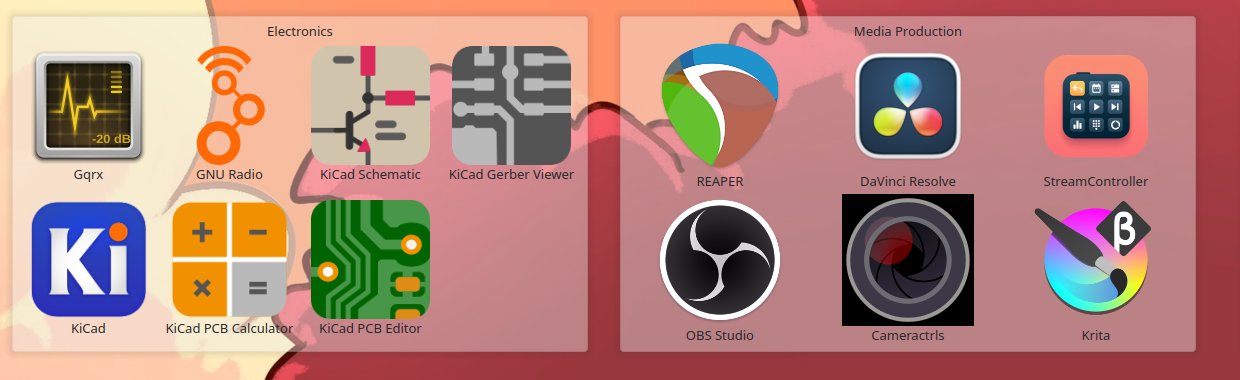
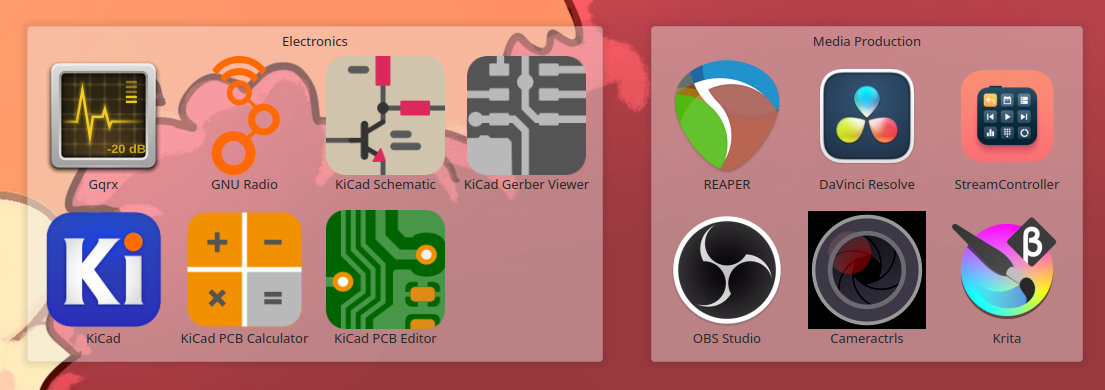
Tidy the layout: balanced widths and centred rows
Two things made a correct layout look sloppy.

Widths were computed from max_columns, but Quicklaunch balances icons
across the rows it is given -- six icons in two rows render 3+3, not
4+2. The extra width was real estate Quicklaunch filled by scaling the
icons up, so every group ended up a slightly different icon size. Sizing
to the balanced column count fixes it.

Rows were also pinned to the left margin with groups top-aligned, which
left dead space on a wide screen and a ragged bottom edge wherever a row
mixed one-row and two-row groups. New `align` setting, defaulting to
center, centres each row horizontally and centres shorter groups within
it.

Screenshots recaptured and cropped tight to the groups.

diff --git a/paddocks/layout.py b/paddocks/layout.py
@@ -24,6 +24,7 @@ class Metrics:
     gap: int = 24            # space between groups
     top: int = 48            # y of the first row
     reserve_bottom: int = 80 # panel allowance
+    align: str = "center"    # "center" or "left" within each row
 
 
 @dataclass
@@ -44,6 +45,11 @@ def size_for(count: int, m: Metrics) -> tuple[int, int, int]:
     """
     columns = max(1, min(m.max_columns, count))
     rows = max(1, math.ceil(count / columns))
+    # Quicklaunch balances icons evenly across the rows it is given: 6 icons in
+    # 2 rows renders 3+3, not 4+2. Size the box to the balanced column count or
+    # it comes out too wide and Quicklaunch scales the icons up to fill it,
+    # leaving every group a slightly different icon size.
+    columns = math.ceil(count / rows)
     w = columns * m.cell + m.pad_x
     h = m.header + rows * m.cell + m.pad_y
     return max(w, m.min_width), max(h, m.min_height), rows
@@ -71,6 +77,7 @@ def _flow(groups, screen, m: Metrics, columns: int | None) -> list[Box]:
     screen_w, screen_h = screen
     limit = screen_w - m.margin
     boxes: list[Box] = []
+    rows_of_boxes: list[list[Box]] = []
 
     x, y, row_h, in_row = m.margin, m.top, 0, 0
     for name, count in groups:
@@ -81,10 +88,17 @@ def _flow(groups, screen, m: Metrics, columns: int | None) -> list[Box]:
             x = m.margin
             y += row_h + m.gap
             row_h, in_row = 0, 0
-        boxes.append(Box(name, x, y, w, h, rows))
+        box = Box(name, x, y, w, h, rows)
+        boxes.append(box)
+        if in_row == 0:
+            rows_of_boxes.append([])
+        rows_of_boxes[-1].append(box)
         x += w + m.gap
         row_h = max(row_h, h)
         in_row += 1
+
+    if m.align == "center":
+        _center(rows_of_boxes, screen_w)
 
     overflow = (y + row_h) - (screen_h - m.reserve_bottom)
     if overflow > 0:
@@ -93,3 +107,21 @@ def _flow(groups, screen, m: Metrics, columns: int | None) -> list[Box]:
             f"reduce max_columns, cell size, or use fewer groups"
         )
     return boxes
+
+
+def _center(rows_of_boxes: list[list[Box]], screen_w: int) -> None:
+    """Centre each row horizontally, and centre shorter groups within it.
+
+    Groups in a row differ in height whenever they differ in icon-row count,
+    so left/top alignment leaves a ragged bottom edge. Centring both axes makes
+    a mixed row read as one deliberate band.
+    """
+    for row in rows_of_boxes:
+        if not row:
+            continue
+        span = (row[-1].x + row[-1].w) - row[0].x
+        shift = (screen_w - span) // 2 - row[0].x
+        tallest = max(b.h for b in row)
+        for box in row:
+            box.x += shift
+            box.y += (tallest - box.h) // 2

diff --git a/README.md b/README.md
@@ -117,6 +117,12 @@ One non-obvious key: set `maxSectionCount` to the number of icon rows you want.
 Without it Quicklaunch flows every launcher into a single row and shrinks the
 icons to fit, so icon size ends up varying from group to group.
 
+A second, subtler one: Quicklaunch *balances* icons across the rows it is given,
+so six icons in two rows render 3+3 rather than 4+2. Size the widget to that
+balanced column count. Size it to the maximum instead and Quicklaunch scales the
+icons up to fill the extra width, leaving every group a slightly different icon
+size — which reads as sloppy without being obviously wrong.
+
 ### 2. Plasma's scripting API cannot position widgets
 
 `desktop.addWidget()` works. Positioning it does not:
